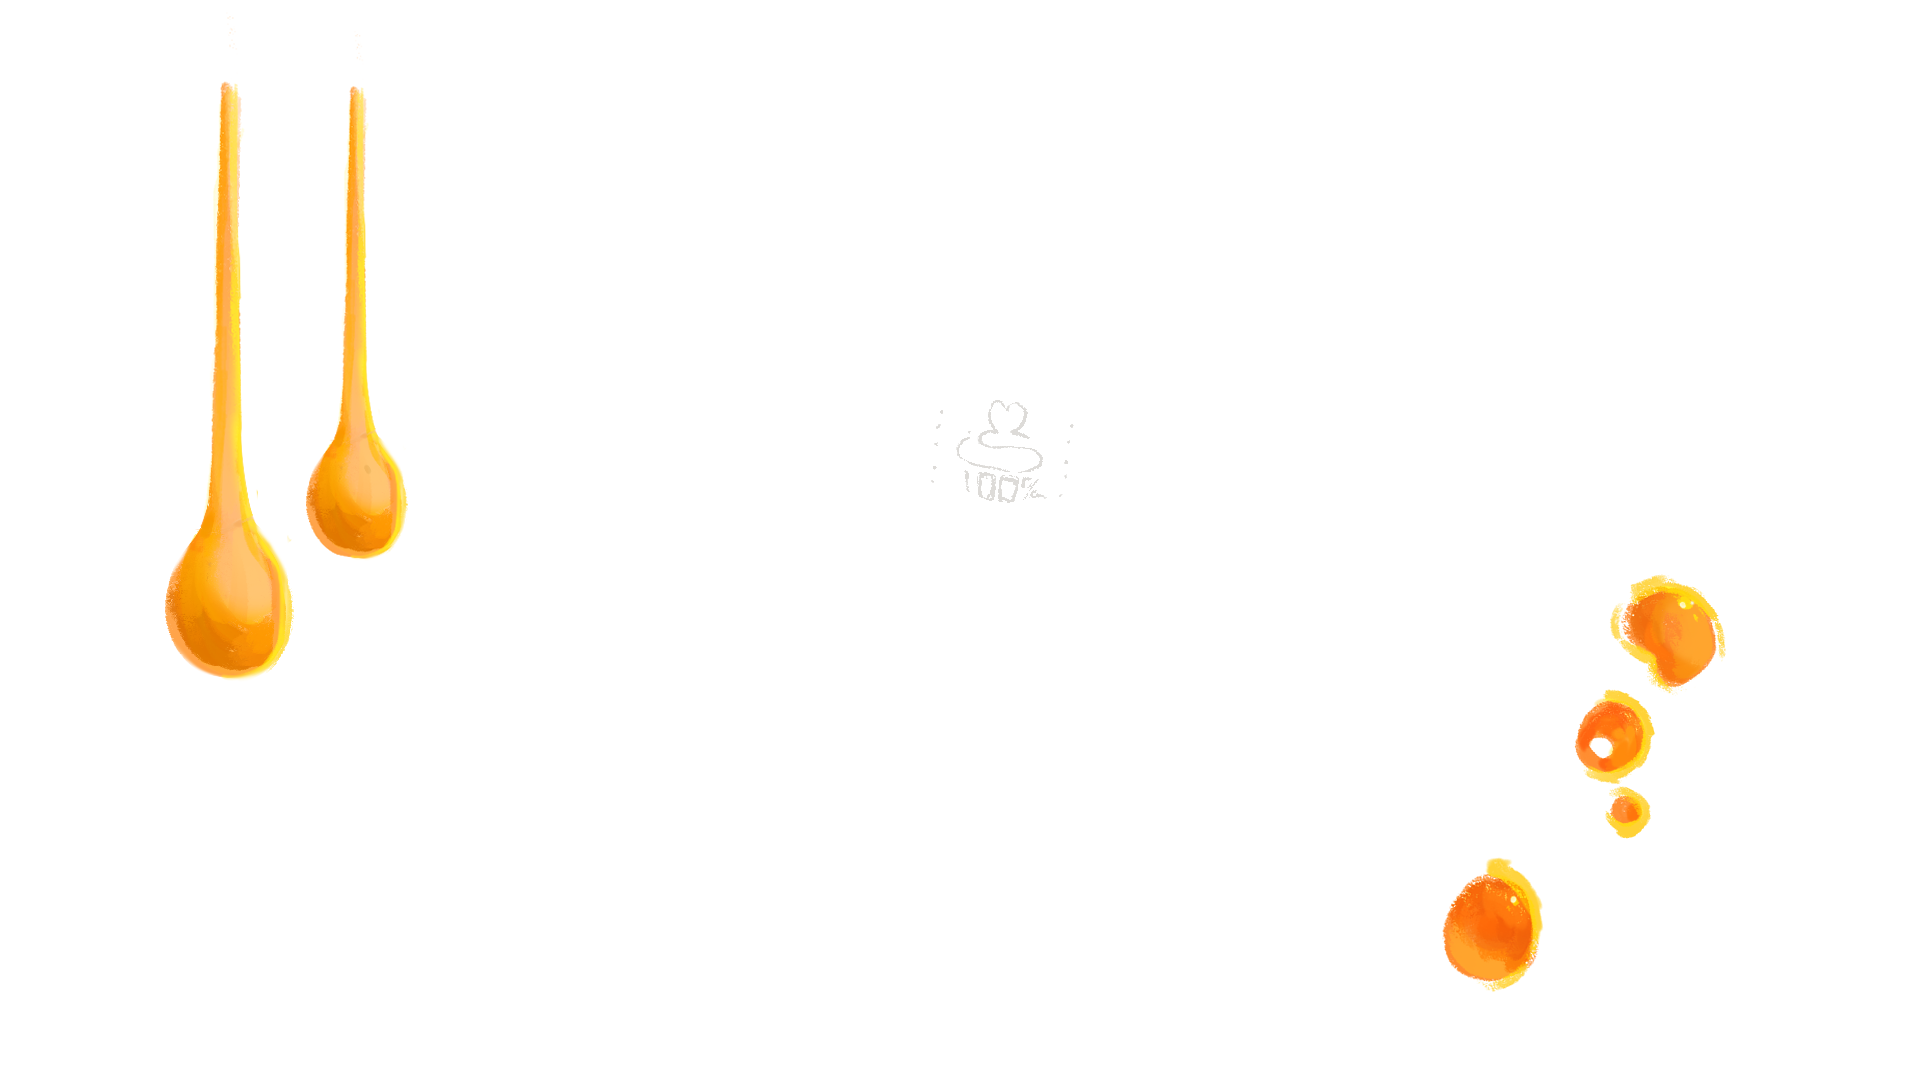
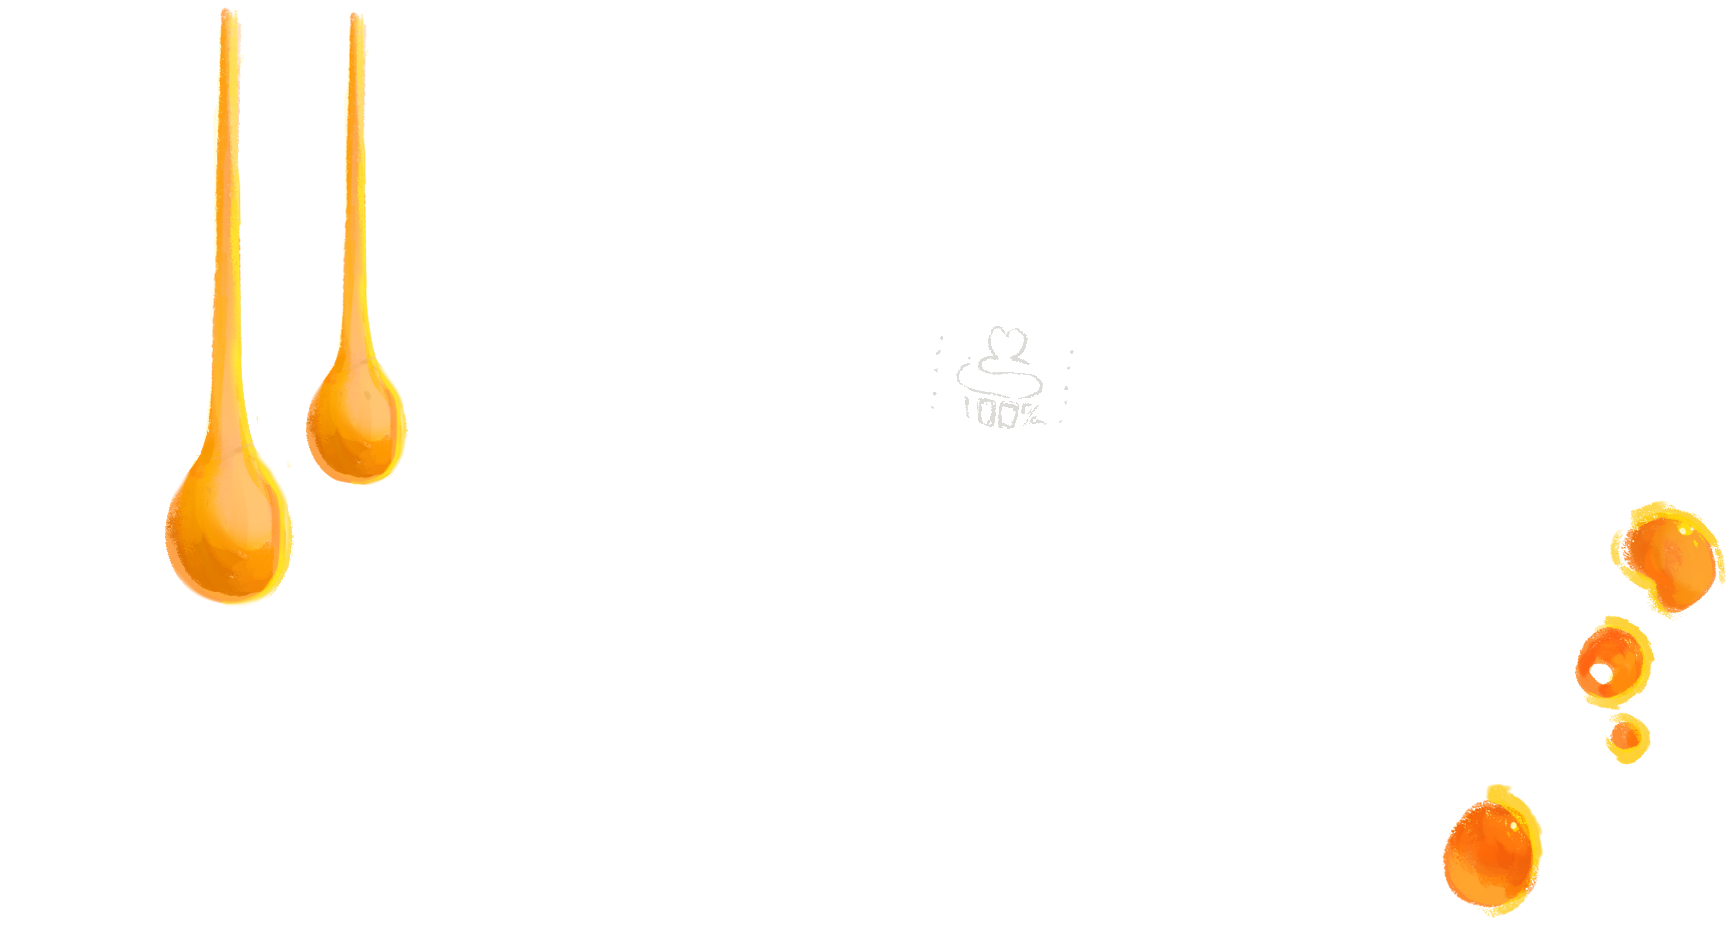
1

diff --git a/index.html b/index.html
@@ -13,8 +13,8 @@
   <script src="https://maxcdn.bootstrapcdn.com/bootstrap/4.5.2/js/bootstrap.min.js"></script>
 
 
- <!-- Bootstrap Core CSS -->
- <link href="vendor/bootstrap/css/bootstrap.min.css" rel="stylesheet">
+  <!-- Bootstrap Core CSS -->
+  <link href="vendor/bootstrap/css/bootstrap.min.css" rel="stylesheet">
 
   <!--我的css-->
   <link href="css/agency.css" rel="stylesheet">
@@ -37,7 +37,6 @@
     <div id="main">
       <span style="font-size:30px;font-weight:bold;cursor:pointer;color: rgb(0, 0, 0);"
         onclick="openNav()">&#9776;</span>
-      
       <a href="#" id="logo">DokoDoki</a>
       <img id="nav_logo" src="img/logo.png" alt="nav_logo">
       <div id="navbar-right">
@@ -49,8 +48,9 @@
 
   </div>
 
-
-
+  <!--阻擋圖片卡住的東東-->
+  <div class="block">
+  </div>
 
   <!--起始圖片-->
   <div class="container" id="start_picture">
@@ -61,7 +61,7 @@
   <div class="container pt-5 text-center intro">
     <h1>Production Concept</h1>
     <div class="row">
-      
+
       <div class="col">
         <p>The inspiration for the establishment of the ドキドキ sweets 100% website comes from a team member who
           occasionally makes desserts, who will make some small desserts. Nowadays, people see shaped cakes, handmade
@@ -79,7 +79,7 @@
   </div>
 
   <!--旋轉木馬-->
-  <div id="Spin_horse" class="carousel slide container" data-ride="carousel">
+  <div id="demo" class="carousel slide" data-ride="carousel">
 
     <!-- Indicators -->
     <ul class="carousel-indicators">
@@ -91,25 +91,24 @@
     <!-- The slideshow -->
     <div class="carousel-inner">
       <div class="carousel-item active">
-        <img src="img/buranni_click.jpg" alt="dessert_2">
+        <img src="img/buranni_click.jpg" alt="" width="900" height="500">
       </div>
       <div class="carousel-item">
-        <img src="img/makalon_click.jpg" alt="dessert_3">
+        <img src="img/makalon_click.jpg" alt="" width="900" height="500">
       </div>
       <div class="carousel-item">
-        <img src="img/reaCake_click.jpg" alt="dessert_4">
+        <img src="img/reaCake_click.jpg" alt="" width="900" height="500">
       </div>
     </div>
 
     <!-- Left and right controls -->
-    <a class="carousel-control-prev" href="#Spin_horse" data-slide="prev">
+    <a class="carousel-control-prev" href="#demo" data-slide="prev">
       <span class="carousel-control-prev-icon"></span>
     </a>
-    <a class="carousel-control-next" href="#Spin_horse" data-slide="next">
+    <a class="carousel-control-next" href="#demo" data-slide="next">
       <span class="carousel-control-next-icon"></span>
     </a>
   </div>
-
   <!--商品選購-->
   <!-- Portfolio Grid Section -->
   <section id="portfolio" class="bg-light-gray">
@@ -149,7 +148,7 @@
             <p class="text-muted">送禮滿分的高顏值小點心</p>
           </div>
         </div>
-        
+
       </div>
     </div>
   </section>
@@ -165,7 +164,7 @@
   </div>
 
 
- 
+
 
 
   <!--blabla-->
@@ -193,4 +192,5 @@
 
 
 </body>
+
 </html>

diff --git a/css/agency.css b/css/agency.css
@@ -4,13 +4,14 @@ p {
   font-weight:bold;
   font-size: 1.2em;
  line-height: 25px;
- }
+}
 
- h1{
+h1{
   padding: 10px;
   text-align:center;
   font-size: 2.0em;
- }
+}
+
 body {
   
   margin-top: 0px;
@@ -22,9 +23,26 @@ body {
   
 }
 
+#main_picture{
+  width: 100%;
+  height: 100%;
+}
+.block{
+  
+  height: 68px;
+}
+
+.carousel-inner img {
+  width: 100%;
+  height: 100%;
+}
 .intro{
   background-image: url("../img/002_INTRO.png");
+  background-size: contain;
   padding: 40px;
+  padding-bottom: 200px;
+  background-repeat: no-repeat;
+  background-position: center;
 }
 
 
